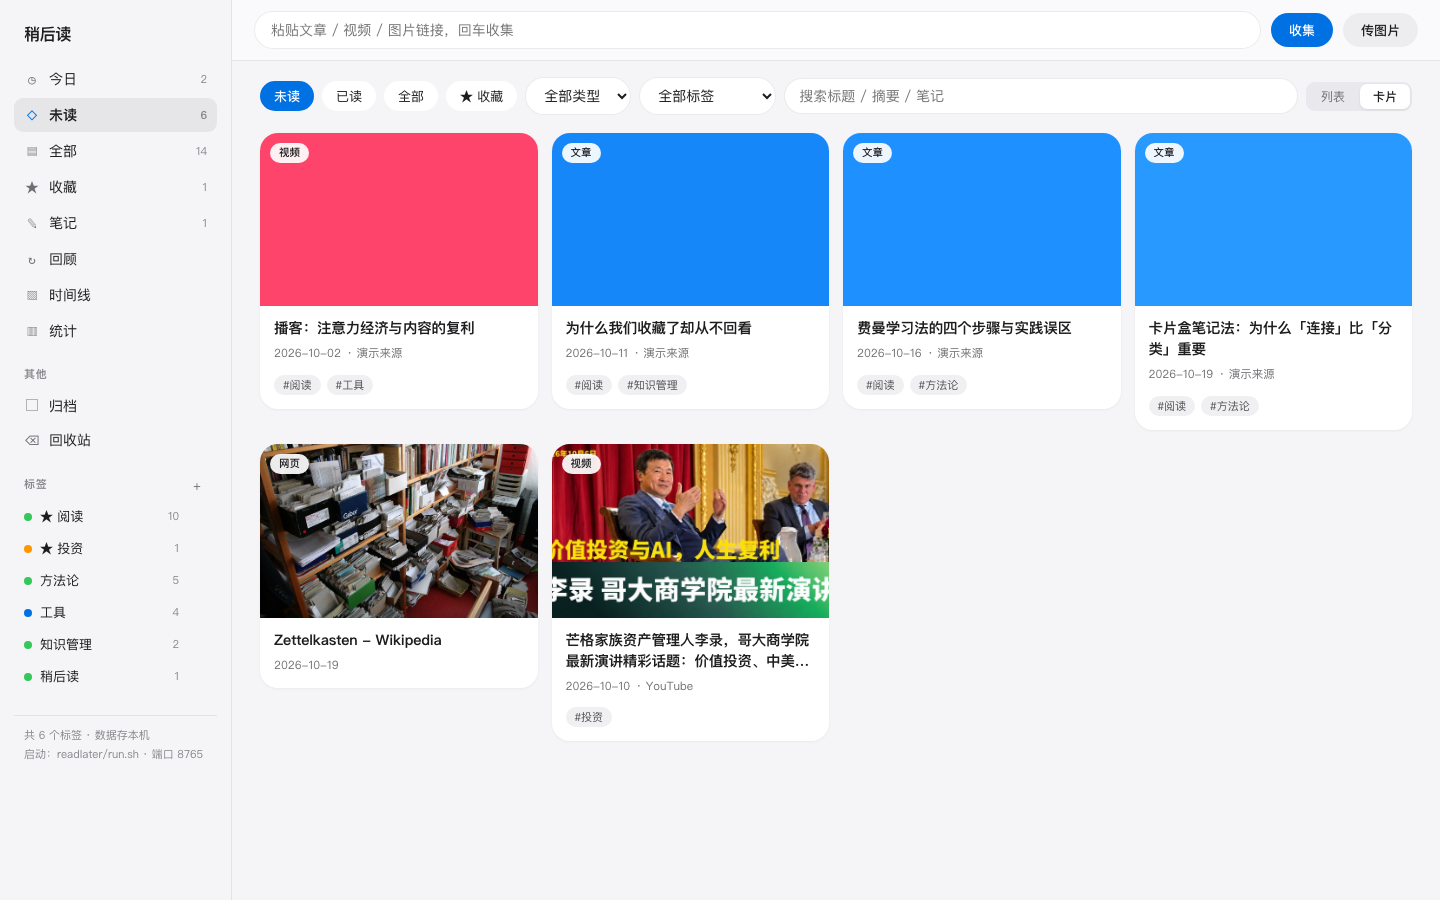
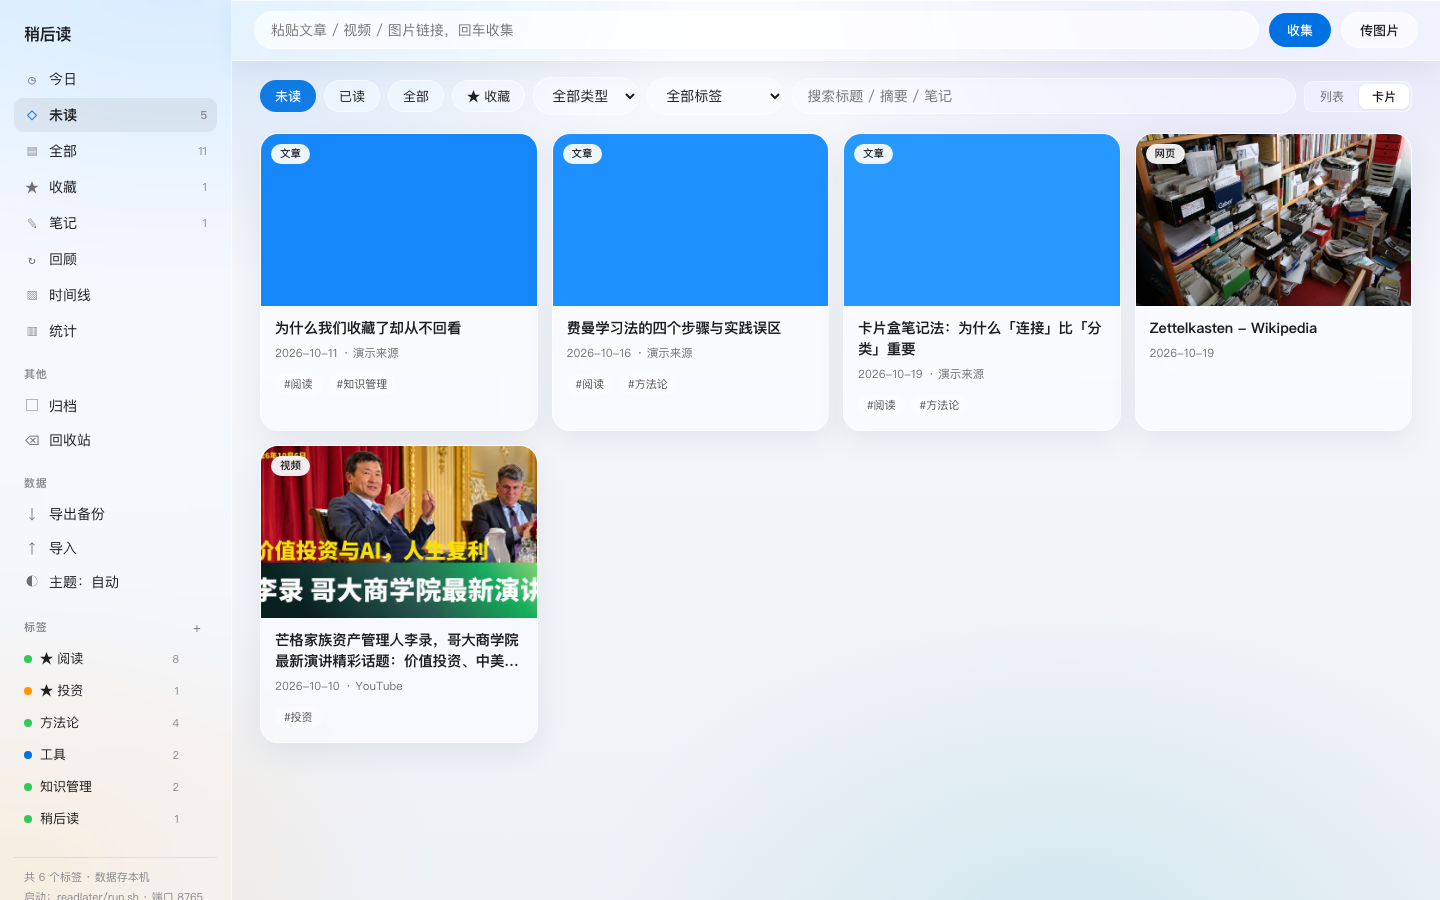
docs: Liquid Glass 截图（含暗色与阅读器高亮），README 增补高亮/导出导入/暗色说明

diff --git a/README.md b/README.md
@@ -31,8 +31,19 @@ ReadLater 只做三件事：
 
 ![卡片墙](assets/screenshot-grid.png)
 
+**Liquid Glass 暗色模式**（自动跟随系统，或手动切换；`#dark` / `#light` 深链接）：
+
+![暗色](assets/screenshot-dark.png)
+
+**阅读器 · 划词高亮**（选中正文即高亮，摘录会出现在每日回顾里）：
+
+![阅读器](assets/screenshot-reader.png)
+
 ## 功能
 
+- **划词高亮**：阅读时选中任意句子 → 「高亮这句」；正文内联标记、按条目汇总、**摘录进入每日回顾卡片**（回顾单位从整条细化到句子）
+- **数据主权**：一键**导出** JSON 全量备份（条目 / 正文 / 标签 / 回顾状态 / 高亮）；**导入**支持自己的备份与浏览器 / Pocket 书签 HTML（按 URL 去重）
+- **暗色模式**：Liquid Glass 玻璃材质，自动跟随系统，也可手动切换（`#dark` / `#light` 深链接）；阅读器支持三档字号
 - **收件通道**：界面粘贴框 / 浏览器书签（Bookmarklet）/ iOS 快捷指令 / 图片上传
 - **组织**：侧栏带实时计数——今日 / 未读 / 全部 / 收藏 / 笔记 / 归档 / 回收站；条目可**置顶**（排序优先）
 - **安全删除**：删除 = **移入回收站**（保留正文与配图），可逐条恢复或清空；与「归档」（处理完沉底、不占主列表）区分
@@ -43,7 +54,7 @@ ReadLater 只做三件事：
 - **标签管理**：颜色（同名恒同色）、置顶、改名（同步改写全部条目）、删除
 - **统计**：近半年活动热力图（收藏 / 回顾双模式）、总览数字、类型分布
 - **两种浏览模式**：列表 / **大封面卡片墙**（响应式 2–5 列，hover 显示快速操作），偏好存本地；`#grid` 深链接直达
-- **界面**：Apple 官网风格；手机浏览器「添加到主屏幕」即为 App；支持深链接 `#review` `#timeline` `#stats` `#fav`
+- **界面**：Apple Liquid Glass 风格——半透明磨砂面板（backdrop-filter + 高光边缘）、环境渐变背景、中性冷灰 + 单一蓝 #0071e3；手机浏览器「添加到主屏幕」即为 App；支持深链接 `#review` `#timeline` `#stats` `#fav` `#grid` `#item=<id>`
 - **键盘操作**：回顾页 `1` 快看 · `2` 还行 · `3` 已熟 · `0` 归档 · `F` 收藏
 
 ## 快速开始
@@ -116,7 +127,7 @@ readlater/
 
 ## 已验证 / 待实测
 
-**已验证（本机实测）**：收集入库、URL 去重、外网文章解析（直连失败自动代理兜底）、微信解析器结构测试、图片上传、标记已读、标签增删改（改名同步全部条目 / 删除剥离）、收藏筛选、**软删除 → 回收站 → 恢复 / 清空全链路**、归档与取消归档、条目置顶排序、今日与笔记筛选、侧栏计数一致性、8 路并发写入（SQLite WAL 下全部通过）、每日回顾排期与连续天数、时间线月历与事件流、`install.sh` 一键建环境 + `run.sh` 启动（macOS 实测）。
+**已验证（本机实测）**：收集入库、URL 去重、外网文章解析（直连失败自动代理兜底）、微信解析器结构测试、图片上传、标记已读、标签增删改（改名同步全部条目 / 删除剥离）、收藏筛选、**软删除 → 回收站 → 恢复 / 清空全链路**、归档与取消归档、条目置顶排序、今日与笔记筛选、侧栏计数一致性、**导出 JSON → 回导去重（0 新增 / N 跳过）**、**书签 HTML 导入（含重复跳过）**、**划词高亮增删查 + 正文内联标记**、暗色/浅色主题切换、8 路并发写入（SQLite WAL 下全部通过）、每日回顾排期与连续天数、时间线月历与事件流、`install.sh` 一键建环境 + `run.sh` 启动（macOS 实测）。
 
 **待实测**：**Docker 部署**（Dockerfile 已提供但本机无 Docker 环境，未经实测）；微信公众号文章的线上解析（逻辑按公开页面结构实现，需真实文章链接验证；个别防爬文章会降级为「仅存链接」）；iOS 快捷指令与订阅号收件通道。
 
